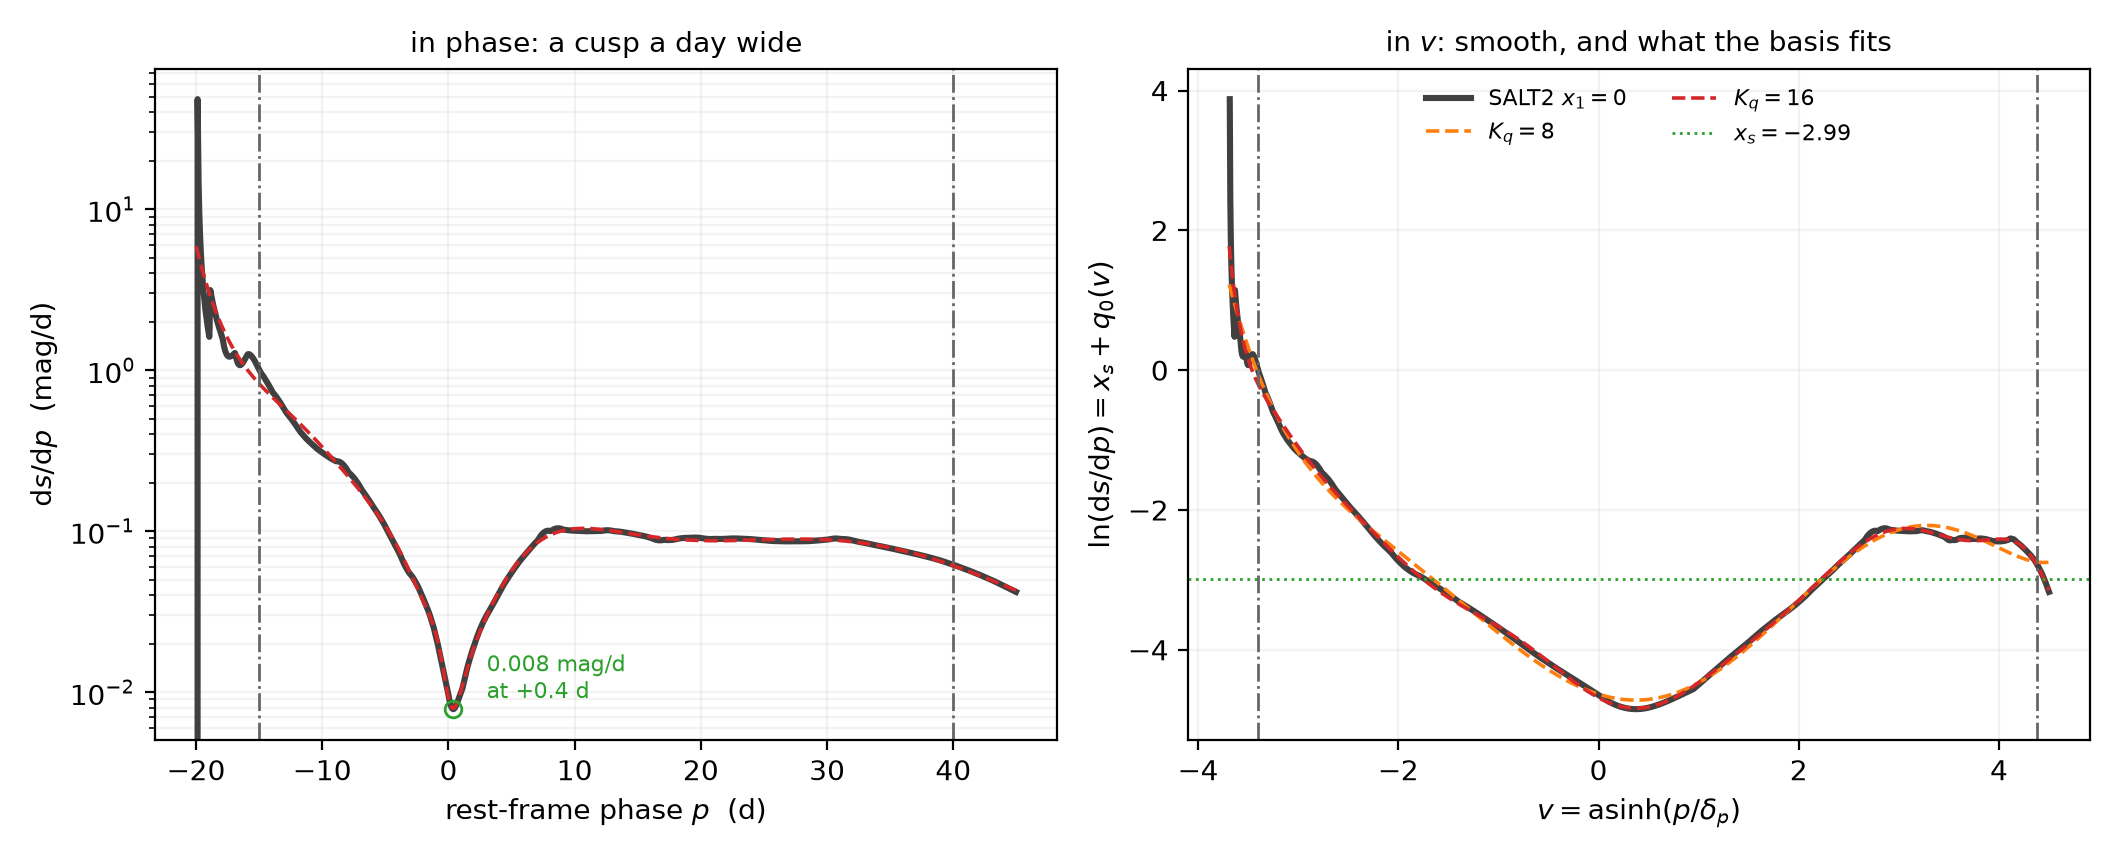
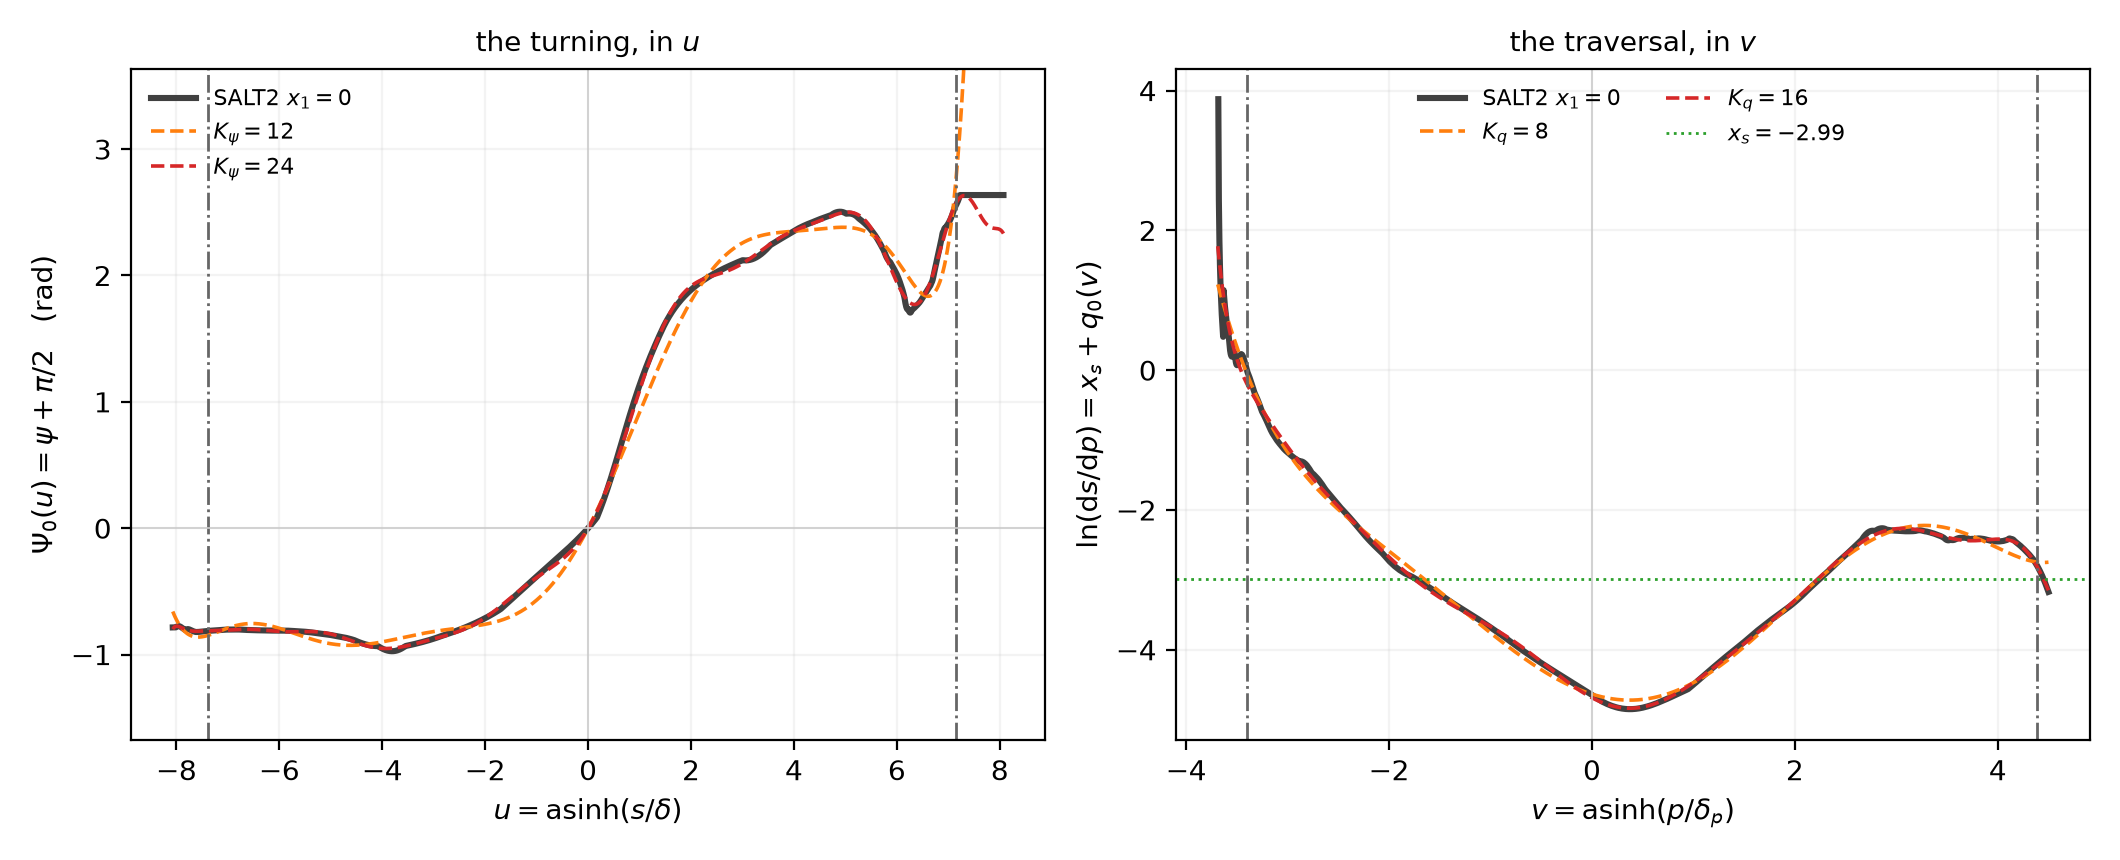
Figure 1: the two shared functions, each in its own coordinate
The left panel was ds/dp against phase, which showed the cusp but said
nothing about the turning.  Replace it with the Psi_0(u) analogue, so the
figure now holds the model's two shared functions side by side, each in
the asinh coordinate it is expanded in, with the data window's reach
marked in both.

Psi_0 comes from forward.stan's own psi output -- Python evaluates no
basis.  Over the arclengths the data window reaches, u in [-7.39, +7.15],
Psi_0 spans [-0.974, +2.556] rad and is not monotone; 38% of that range
is climbed inside |s| < delta, 1.03 d of phase and 1.9% of the window,
which the asinh opens to 12% of the u range.  The least-squares fit's
maximum residual there is 0.32 rad at K_psi = 12 and 0.078 at 24, and the
under-resolved step through u = 0 to 2 is visible in the panel.  The
total variation, 5.33 rad, is stable to three digits at 2000, 4000 and
8000 track samples.

The K_psi = 12 fit runs away past the window's right edge; the panel is
clipped to the track's own range so it leaves the frame rather than
flattening everything the figure is about.

diff --git a/scripts/plot_traversal.py b/scripts/plot_traversal.py
@@ -9,7 +9,7 @@ immediate in a picture: the rate is a cusp in phase and a smooth broad curve
 in v, and the rule puts a fifth of its nodes in the two panels either side of
 zero, which is where the cusp is.
 
-The \salt\ track at x1 = 0 is used as an illustration of what the basis has
+The SALT2 track at x1 = 0 is used as an illustration of what the basis has
 to represent, not as anything fitted: the standing commitment is that
 templates quantify systematics and never fit, and nothing here reaches a
 likelihood.  Stan evaluates the model throughout, through forward.stan.
@@ -48,6 +48,24 @@ def rate_on(V, kq):
     return r, np.log(r), float(fit["x_s"]), s
 
 
+def turning_on(U, kpsi):
+    """Psi_0 at arclengths s = delta sinh(U), from the K_psi fit.
+
+    forward.stan reports psi at the requested arclengths, and
+    psi = -pi/2 + Psi_0 by Eq. (cturn), so Psi_0 = psi + pi/2."""
+    tr = salt_track(0.0, n_per_side=4000)
+    fit = fit_track(tr, kpsi, 16)
+    S = D.DELTA * np.sinh(U)
+    d = D.grid_data(k_psi=kpsi, k_q=16)
+    d.update(a=np.zeros(15), b=np.asarray(fit["q"]), c=np.zeros(kpsi - 1),
+             d=np.asarray(fit["psi"]))
+    d.update(D.params_data(x_s=float(fit["x_s"]), x_p=0.0, x_psi=0.0))
+    d.update(z=0.0)
+    d.update(D.eval_points(p_eval=np.array([0.0, 1.0]), s_eval=S,
+                           dt=np.array([0.0, 0.0]), band=np.array([1, 2])))
+    return np.asarray(fixed_param("forward", d)["psi"], dtype=float) + np.pi / 2
+
+
 def track_rate(V):
     tr = salt_track(0.0, n_per_side=4000)
     P = D.DELTA_P * np.sinh(V)
@@ -67,33 +85,55 @@ def main():
     fits = {kq: rate_on(V, kq) for kq in (8, 16)}
     k = (vm >= wlo) & (vm <= whi)
 
-    # ---- Figure 1: the same function in the two coordinates ----------------
+    # ---- Figure 1: the two shared functions, each in its own coordinate ----
+    ulo, uhi = np.arcsinh(np.array(D.ARC_RANGE) / D.DELTA)
+    tr = salt_track(0.0, n_per_side=4000)
+    u_tr = np.arcsinh(tr["s"] / D.DELTA)
+    inu = (u_tr >= ulo) & (u_tr <= uhi)
+    U = np.linspace(ulo + 1e-6, uhi - 1e-6, 4001)
+    psi_t = np.interp(U, u_tr[inu], tr["psi"][inu] + np.pi / 2)
+    turns = {kp: turning_on(U, kp) for kp in (12, 24)}
+    # where the data window lands in u
+    s_lo = np.interp(D.DATA_WINDOW[0], tr["p"], tr["s"])
+    s_hi = np.interp(D.DATA_WINDOW[1], tr["p"], tr["s"])
+    u_lo, u_hi = np.arcsinh(s_lo / D.DELTA), np.arcsinh(s_hi / D.DELTA)
+    print(f"   the data window maps to s in [{s_lo:+.2f}, {s_hi:+.2f}] mag, "
+          f"u in [{u_lo:+.2f}, {u_hi:+.2f}]")
+    ku = (U >= u_lo) & (U <= u_hi)
+    for kp in turns:
+        print(f"   K_psi={kp}: max |residual| in Psi_0 over the data window's arclengths "
+              f"{np.abs(turns[kp][ku] - psi_t[ku]).max():.4f} rad")
+
     fig, ax = plt.subplots(1, 2, figsize=(10.6, 4.3))
     a = ax[0]
-    a.semilogy(pm, r_t, lw=2.2, color="0.25")
-    a.semilogy(pm, fits[16][0], lw=1.3, ls="--", color="#d62728")
-    j = np.argmin(r_t[k])
-    a.plot(pm[k][j], r_t[k][j], "o", ms=6, mfc="none", color="#2ca02c")
-    a.annotate(f"{r_t[k][j]:.3f} mag/d\nat {pm[k][j]:+.1f} d", (pm[k][j], r_t[k][j]),
-               textcoords="offset points", xytext=(12, 4), fontsize=8, color="#2ca02c")
-    for e in D.DATA_WINDOW:
+    a.plot(U, psi_t, lw=2.2, color="0.25", label="SALT2 $x_{1}=0$")
+    for kp, col in ((12, "#ff7f0e"), (24, "#d62728")):
+        a.plot(U, turns[kp], lw=1.3, ls="--", color=col, label=f"$K_\\psi={kp}$")
+    for e in (u_lo, u_hi):
         a.axvline(e, color="0.4", lw=1.0, ls="-.")
-    a.set_xlabel(r"rest-frame phase $p$  (d)")
-    a.set_ylabel(r"$\mathrm{d}s/\mathrm{d}p$  (mag/d)")
-    a.set_title("in phase: a cusp a day wide", fontsize=10)
-    a.grid(alpha=0.15, which="both")
+    a.axvline(0, color="0.8", lw=0.6)
+    a.axhline(0, color="0.8", lw=0.6)
+    a.set_xlabel(r"$u=\mathrm{asinh}(s/\delta)$")
+    a.set_ylabel(r"$\Psi_0(u) = \psi + \pi/2$   (rad)")
+    # the K_psi = 12 fit runs away past the data window's right edge; let it
+    # leave the frame rather than flatten everything the panel is about
+    a.set_ylim(psi_t.min() - 0.7, psi_t.max() + 1.0)
+    a.set_title("the turning, in $u$", fontsize=10)
+    a.legend(fontsize=8, frameon=False, loc="upper left")
+    a.grid(alpha=0.15)
 
     a = ax[1]
-    a.plot(vm, y_t, lw=2.2, color="0.25", label=r"SALT2 $x_{1}=0$")
+    a.plot(vm, y_t, lw=2.2, color="0.25", label="SALT2 $x_{1}=0$")
     for kq, col in ((8, "#ff7f0e"), (16, "#d62728")):
         a.plot(vm, fits[kq][1], lw=1.3, ls="--", color=col, label=f"$K_q={kq}$")
     a.axhline(fits[16][2], color="#2ca02c", lw=1.0, ls=":",
               label=f"$x_s={fits[16][2]:.2f}$")
     for e in (wlo, whi):
         a.axvline(e, color="0.4", lw=1.0, ls="-.")
+    a.axvline(0, color="0.8", lw=0.6)
     a.set_xlabel(r"$v=\mathrm{asinh}(p/\delta_p)$")
     a.set_ylabel(r"$\ln(\mathrm{d}s/\mathrm{d}p)=x_s+q_0(v)$")
-    a.set_title("in $v$: smooth, and what the basis fits", fontsize=10)
+    a.set_title("the traversal, in $v$", fontsize=10)
     a.legend(fontsize=8, frameon=False, loc="upper center", ncol=2)
     a.grid(alpha=0.15)
     fig.tight_layout()

diff --git a/docs/tex/implementation.tex b/docs/tex/implementation.tex
@@ -427,19 +427,28 @@ span.
 \begin{figure}[htbp]
 \centering
 \includegraphics[width=\textwidth]{traversal-coordinates}
-\caption{Why the traversal is expanded in $v$ and not in phase. \emph{Left:} the rate
-$\dd\arc/\dd\phase$ of a \salt\ track at $x_{1}=0$, $c=0$, against phase. It is a cusp:
-$0.008$~mag/d at $+0.4$~d against $1.0$ a fortnight earlier, a factor of $125$, in a feature
-about a day wide in a window of $65$. \emph{Right:} the same quantity's logarithm, which by
-\eqref{eq:ctrav} \emph{is} $x_{s} + q_{0}$, against $v$. The cusp becomes a smooth broad
-curve spanning $-4.85$ to $0.01$ over the data window, bottoming at $v \simeq 0.37$ and
-flattening by $v \simeq 2.7$; $x_{s}$ is the dotted line, and $q_{0}$ oscillates about it
-with zero mean under $\int\dd v$. Dashed: the least-squares fit at $K_{q} = 8$ and $16$,
-whose residuals in the log over the data window have root-mean-square $0.085$ and $0.038$.
-The maximum residual barely moves between the two, $0.221$ against $0.202$, because it lives
-in the five-day margins outside the data window and not in the body: the order is set by the
-edges. The track is an illustration of what the basis has to represent and is not fitted ---
-nothing here reaches a likelihood. Produced by \file{scripts/plot\_traversal.py}.}
+\caption{The two functions the population shares, each in the coordinate it is expanded
+in. \emph{Left:} the turning $\turnzero(u) = \psi + \pi/2$ of a \salt\ track at $x_{1}=0$,
+$c=0$, by \eqref{eq:cturn}, against $u = \mathrm{asinh}(\arc/\delta)$. Dash-dotted: the
+arclengths the data window reaches, $\arc \in [-4.06, +3.18]$~mag, which is
+$u \in [-7.39, +7.15]$. $\turnzero$ runs over $[-0.974, +2.556]$~rad there and is not
+monotone, doubling back twice for a total variation of $5.33$~rad. Of its range, $38\%$ is
+climbed inside $|\arc| < \delta = 5\times10^{-3}$~mag, a rise of $1.33$~rad over $1.03$~d of
+phase, $1.9\%$ of the window, which the $\mathrm{asinh}$ opens to $12\%$ of the $u$ range. Dashed: the least-squares fit at
+$K_{\psi} = 12$ and $24$, with maximum residual $0.32$ and $0.078$~rad over those
+arclengths. \emph{Right:} the log rate, which by \eqref{eq:ctrav} \emph{is}
+$x_{s} + q_{0}$, against $v$. In phase this quantity is a cusp --- $0.008$~mag/d at $+0.4$~d
+against $1.0$ a fortnight earlier, a factor of $125$ in a feature a day wide --- and in $v$ it
+is a smooth broad curve spanning $-4.85$ to $0.01$ over the data window, bottoming at
+$v \simeq 0.37$ and flattening by $v \simeq 2.7$; $x_{s}$ is the dotted line, and $q_{0}$
+oscillates about it with zero mean under $\int\dd v$. Dashed: the fit at $K_{q} = 8$ and
+$16$, whose residuals in the log over the data window have root-mean-square $0.085$ and
+$0.038$. The maximum residual barely moves between the two, $0.221$ against $0.202$, because
+it lives in the five-day margins outside the data window and not in the body: the order is
+set by the edges. Both coordinates do the same work --- they spend resolution where the
+function turns, which in phase and in arclength is a vanishing fraction of the interval. The
+track is an illustration of what the basis has to represent and is not fitted; nothing here
+reaches a likelihood. Produced by \file{scripts/plot\_traversal.py}.}
 \label{fig:coords}
 \end{figure}
 
